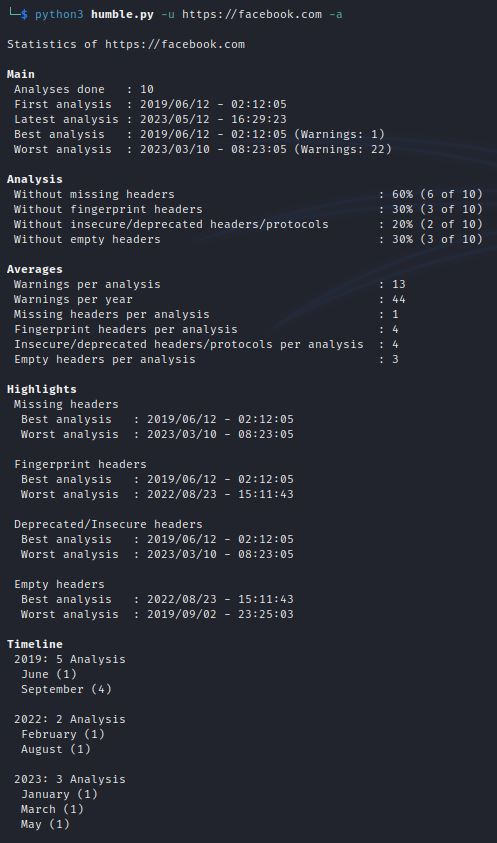
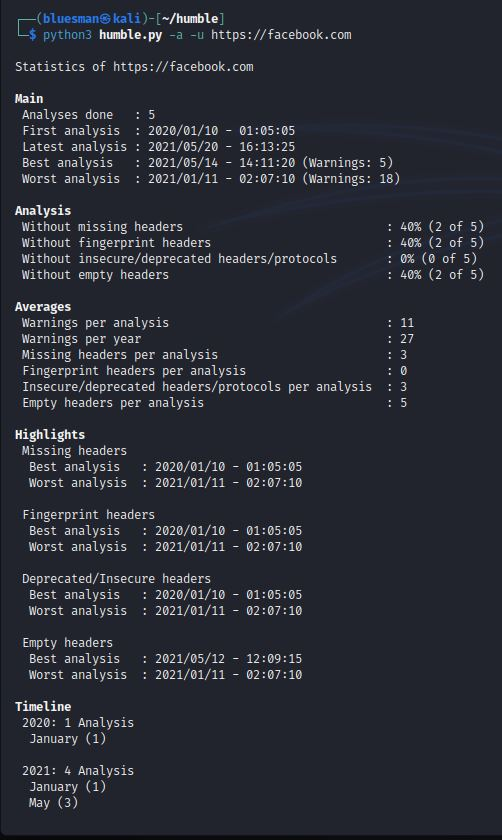
Feature: Global statistics of all analyses performed
Will be displayed when '-a' is used without '-u URL'.

diff --git a/humble.py b/humble.py
@@ -230,8 +230,12 @@ def compare_totals(mh_cnt, m_cnt, fh_cnt, f_cnt, ih_cnt, i_cnt, eh_cnt, e_cnt,
 
 def file_exists(filepath):
     if not path.exists(filepath):
-        print("")
-        print(get_detail('[no_analysis]'))
+        if args.URL:
+            print("")
+            print(get_detail('[no_analysis]'))
+        else:
+            print("")
+            print(get_detail('[no_global_analysis]'))
         print("")
         sys.exit()
 
@@ -405,6 +409,75 @@ def get_fourth_metrics(fourth_m):
 
 def get_analysis_year_metrics(additional_m):
     return {'[analysis_year_month]': f"\n{additional_m[1]}"}
+
+
+def global_analytics():
+    file_exists(A_FILE)
+    with open(A_FILE, 'r', encoding='utf8') as c_history:
+        analysis_stats = extract_global_metrics(c_history)
+    print("")
+    print(f"{get_detail('[global_stats_analysis]', replace=True)}")
+    print("")
+    for key, value in analysis_stats.items():
+        if not value or not key.startswith(' '):
+            key = f"{Style.BRIGHT}{key}{Style.RESET_ALL}"
+            print(f"{key}{value}")
+        else:
+            print(f"{key}: {value}")
+
+
+def extract_global_metrics(c_history):
+    url_ln = list(c_history)
+    if not url_ln:
+        print("")
+        print(get_detail('[no_global_analysis]'))
+        print("")
+        sys.exit()
+    total_a = len(url_ln)
+    first_m = extract_global_first_metrics(url_ln)
+    second_m = [extract_second_metrics(url_ln, i, total_a) for i in
+                range(2, 6)]
+    third_m = extract_third_metrics(url_ln)
+    additional_m = extract_additional_metrics(url_ln)
+    return print_global_metrics(total_a, first_m, second_m, third_m,
+                                additional_m)
+
+
+def extract_global_first_metrics(url_ln):
+    url_lines = {}
+    for line in url_ln:
+        url = line.split(' ; ')[1]
+        if url in url_lines:
+            url_lines[url] += 1
+        else:
+            url_lines[url] = 1
+    first_a = min(f"{line.split(' ; ')[0]}" for line in url_ln)
+    latest_a = max(f"{line.split(' ; ')[0]}" for line in url_ln)
+    unique_u = len({line.split(' ; ')[1] for line in url_ln})
+    most_analyzed_u = max(url_lines, key=url_lines.get)
+    least_analyzed_u = min(url_lines, key=url_lines.get)
+    return (first_a, latest_a, unique_u, most_analyzed_u, least_analyzed_u)
+
+
+def get_basic_global_metrics(total_a, first_m):
+    return {'[main]': "", '[total_analysis]': total_a,
+            '[total_global_analysis]': str(first_m[2]),
+            '[first_analysis_a]': first_m[0],
+            '[latest_analysis]': first_m[1] + "\n",
+            '[most_analyzed]': first_m[3],
+            '[least_analyzed]': first_m[4] + "\n"}
+
+
+def print_global_metrics(total_a, first_m, second_m, third_m, additional_m):
+    basic_m = get_basic_global_metrics(total_a, first_m)
+    error_m = get_error_metrics(second_m)
+    warning_m = get_warning_metrics(additional_m)
+    averages_m = get_averages_metrics(third_m)
+    analysis_year_m = get_analysis_year_metrics(additional_m)
+    totals_m = {**basic_m, **error_m, **warning_m, **averages_m,
+                **analysis_year_m}
+    return {get_detail(key, replace=True): value for key, value in
+            totals_m.items()}
 
 
 def clean_output():
@@ -598,7 +671,7 @@ init(autoreset=True)
 parser = ArgumentParser(formatter_class=RawDescriptionHelpFormatter,
                         description=PRG_N + GIT_U)
 parser.add_argument("-a", dest='URL_A', action="store_true", help="Show \
-statistics of the analysis performed on the specified URL.")
+statistics of the performed analysis (will be global if -u URL is omitted)")
 parser.add_argument("-b", dest='brief', action="store_true", help="Show a \
 brief analysis; if omitted, a detailed analysis will be shown.")
 parser.add_argument("-g", dest='guides', action="store_true", help="Show \
@@ -623,8 +696,11 @@ if args.version:
     check_updates(version)
     sys.exit()
 
+if args.lang and not (args.URL or args.URL_A):
+    parser.error("The '-l' option requires '-u' or '-a'.")
+
 if any([args.brief, args.lang, args.output, args.ret]) \
-        and (args.URL is None and not args.guides):
+        and (args.URL is None and not args.guides) and (args.URL_A is None):
     parser.error("The '-u' option is required.")
 
 URL = args.URL
@@ -636,7 +712,11 @@ if args.guides:
     sys.exit()
 
 if args.URL_A:
-    url_analytics()
+    if args.URL:
+        url_analytics()
+    else:
+        details_f = get_details_lines()
+        global_analytics()
     sys.exit()
 
 start = time()

diff --git a/README.md b/README.md
@@ -4,7 +4,7 @@
 <a target="_blank" href="https://www.python.org/downloads/" title="Minimum Python version required to run this tool"><img src="https://img.shields.io/badge/Python-%3E%3D3.9-blue?labelColor=343b41"></a>
 <a target="_blank" href="LICENSE" title="License of this tool"><img src="https://img.shields.io/badge/License-MIT-blue.svg?labelColor=343b41"></a>
 <a target="_blank" href="https://github.com/rfc-st/humble/releases" title="Latest release of this tool"><img src="https://img.shields.io/github/v/release/rfc-st/humble?display_name=release&label=Latest%20release&labelColor=343b41"></a>
-<a target="_blank" href="https://github.com/rfc-st/humble/commits/master" title="Latest commit of this tool"><img src="https://img.shields.io/badge/Latest_Commit-2023--06--09-blue.svg?labelColor=343b41"></a>
+<a target="_blank" href="https://github.com/rfc-st/humble/commits/master" title="Latest commit of this tool"><img src="https://img.shields.io/badge/Latest_Commit-2023--06--10-blue.svg?labelColor=343b41"></a>
 <a target="_blank" href="https://github.com/rfc-st/humble/actions?query=workflow%3ACodeQL" title="Results of the last analysis of this tool with CodeQL"><img src="https://github.com/rfc-st/humble/workflows/CodeQL/badge.svg"></a>
 <a target="_blank" href="https://owasp.org/www-project-secure-headers/#div-technical" title="Tool accepted as a technical resource for OWASP"><img src="https://img.shields.io/badge/OWASP-Resource-blue?labelColor=343b41"></a>
 <a target="_blank" href="https://www.kali.org/tools/humble/" title="Tool accepted in Kali"><img src="https://img.shields.io/badge/Kali%20Linux-Tool-blue?labelColor=343b41"></a>
@@ -103,10 +103,16 @@ HTTP Headers Analyzer<br />
 <img src="https://github.com/rfc-st/humble/blob/master/screenshots/humble_ah.PNG" alt="History of analysis performed">
 </p>
 <br />
-.: Example of statistics of the analyses performed.<br />
+.: Example of statistics performed against a URL.<br />
 <p></p>
 <p align="center">
 <img src="https://github.com/rfc-st/humble/blob/master/screenshots/humble_analytics.jpg" alt="Statistics of the analysis performed against a URL">
+</p>
+<br />
+.: Example of global statistics.<br />
+<p></p>
+<p align="center">
+<img src="https://github.com/rfc-st/humble/blob/master/screenshots/humble_global_analytics.jpg" alt="Global statistics of the analysis performed">
 </p>
 <br />
 
